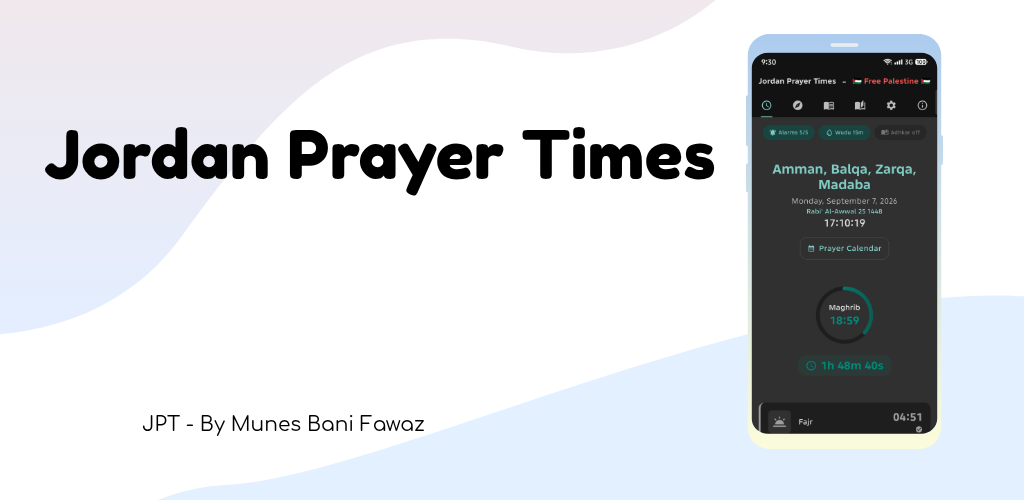
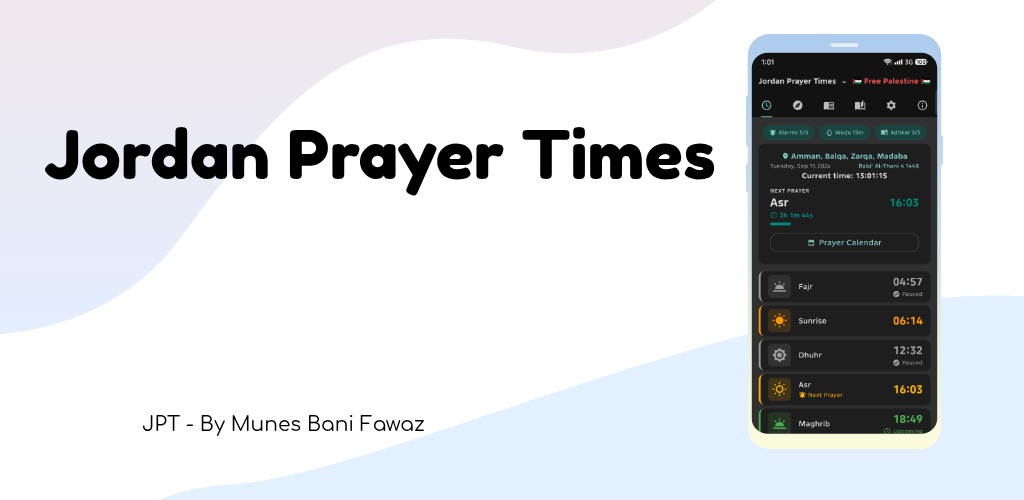
Update the Jordan Prayer Times entry for 3.0.0
New feature graphic, and a description that leads with what 3.0 actually
changed: the schedule sustains itself without the app being opened, and it keeps
a record of what fired. Adds the Ramadan and Jumu'ah reminders, custom athan
files, the sunrise alarm, snooze and the restyleable widgets, with the 2.6 work
kept as history.

Entries can now carry a second link: portfolio items with projectURL2 render an
extra line (here, the project's own website alongside the Play Store page).
Items without it are unchanged.

diff --git a/assets/js/index.js b/assets/js/index.js
@@ -375,6 +375,10 @@ async function loadPortfolio(portfolio) {
           const projectDate = item.projectDate
           const projectURL = item.projectURL
           const projectURLText = item.projectURLText
+          // Optional second link, for a project that has both a store page and
+          // a site of its own. Entries without it render exactly as before.
+          const projectURL2 = item.projectURL2
+          const projectURLText2 = item.projectURLText2
       
           // Populate modal with the first image (or any image you prefer)
           const portfolioImage = document.querySelector('#portfolioDetailsModal .portfolio-image');
@@ -400,6 +404,7 @@ async function loadPortfolio(portfolio) {
               <li><strong>Client</strong>: ${client}</li>
               <li><strong>Project Date</strong>: ${projectDate}</li>
               <li><strong>Project URL</strong>: <a href="${projectURL}" target="_blank">${projectURLText}</a></li>
+              ${projectURL2 ? `<li><strong>Website</strong>: <a href="${projectURL2}" target="_blank">${projectURLText2 || projectURL2}</a></li>` : ''}
           `;
       
           // Populate description

diff --git a/assets/js/futuristic.js b/assets/js/futuristic.js
@@ -340,6 +340,10 @@ function openProjectModal(index) {
         <a href="${project.projectURL}" target="_blank" class="cyber-btn">
             ${project.projectURLText || 'VISIT PROJECT'}
         </a>
+        ${project.projectURL2 ? `
+        <a href="${project.projectURL2}" target="_blank" class="cyber-btn">
+            ${project.projectURLText2 || 'WEBSITE'}
+        </a>` : ''}
         <button class="cyber-btn" onclick="closeModal()">CLOSE</button>
     `;
     
